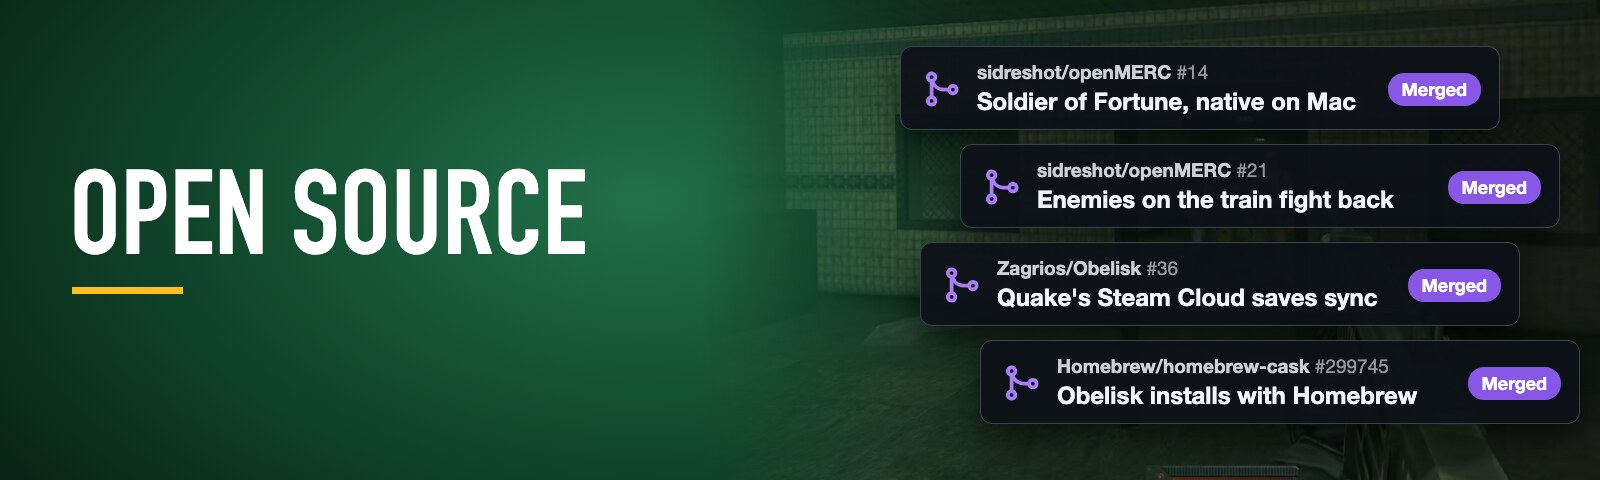
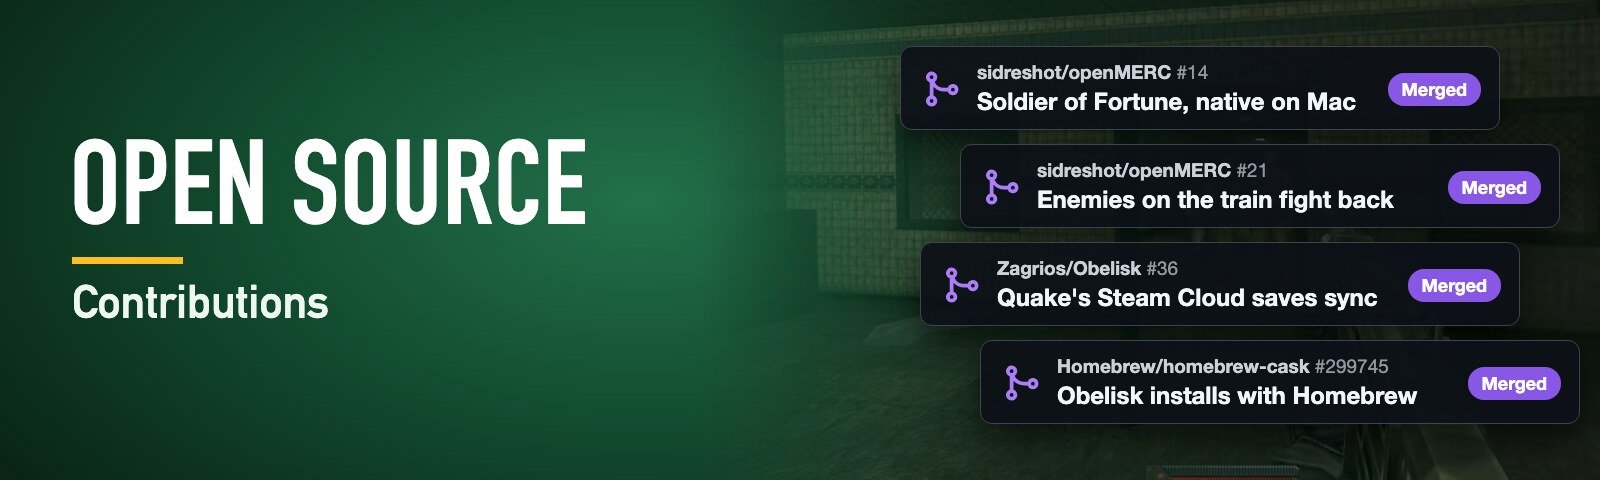
Profile: open source and bug reports first, marked as contributions
Open source and Bug reports come first, each titled as before with
"Contributions" under the title; Software is last, with "Free apps I've
shared". The image descriptions say the same.

Changed region(s): [[0.0312, 0.2812, 0.375, 0.5625], [0.0312, 0.5938, 0.2188, 0.6875]]

diff --git a/README.md b/README.md
@@ -1,8 +1,8 @@
-<a href="https://github.com/gkaragioul/software"><img src="images/software-banner.jpg" alt="Software" width="100%"></a>
+<a href="https://github.com/gkaragioul/open-source"><img src="images/open-source-banner.jpg" alt="Open source: contributions" width="100%"></a>
 
-<a href="https://github.com/gkaragioul/open-source"><img src="images/open-source-banner.jpg" alt="Open source" width="100%"></a>
+<a href="https://github.com/gkaragioul/open-source/blob/main/bug-reports.md"><img src="images/bug-reports-banner.jpg" alt="Bug reports: contributions" width="100%"></a>
 
-<a href="https://github.com/gkaragioul/open-source/blob/main/bug-reports.md"><img src="images/bug-reports-banner.jpg" alt="Bug reports" width="100%"></a>
+<a href="https://github.com/gkaragioul/software"><img src="images/software-banner.jpg" alt="Software: free apps I've shared" width="100%"></a>
 
 <p align="center"><sub>Disclaimer: these are unofficial fan projects, made in my free time. They are not affiliated with or endorsed by any game company, and no game files are shared here: you need your own copy of each game.</sub></p>
 
